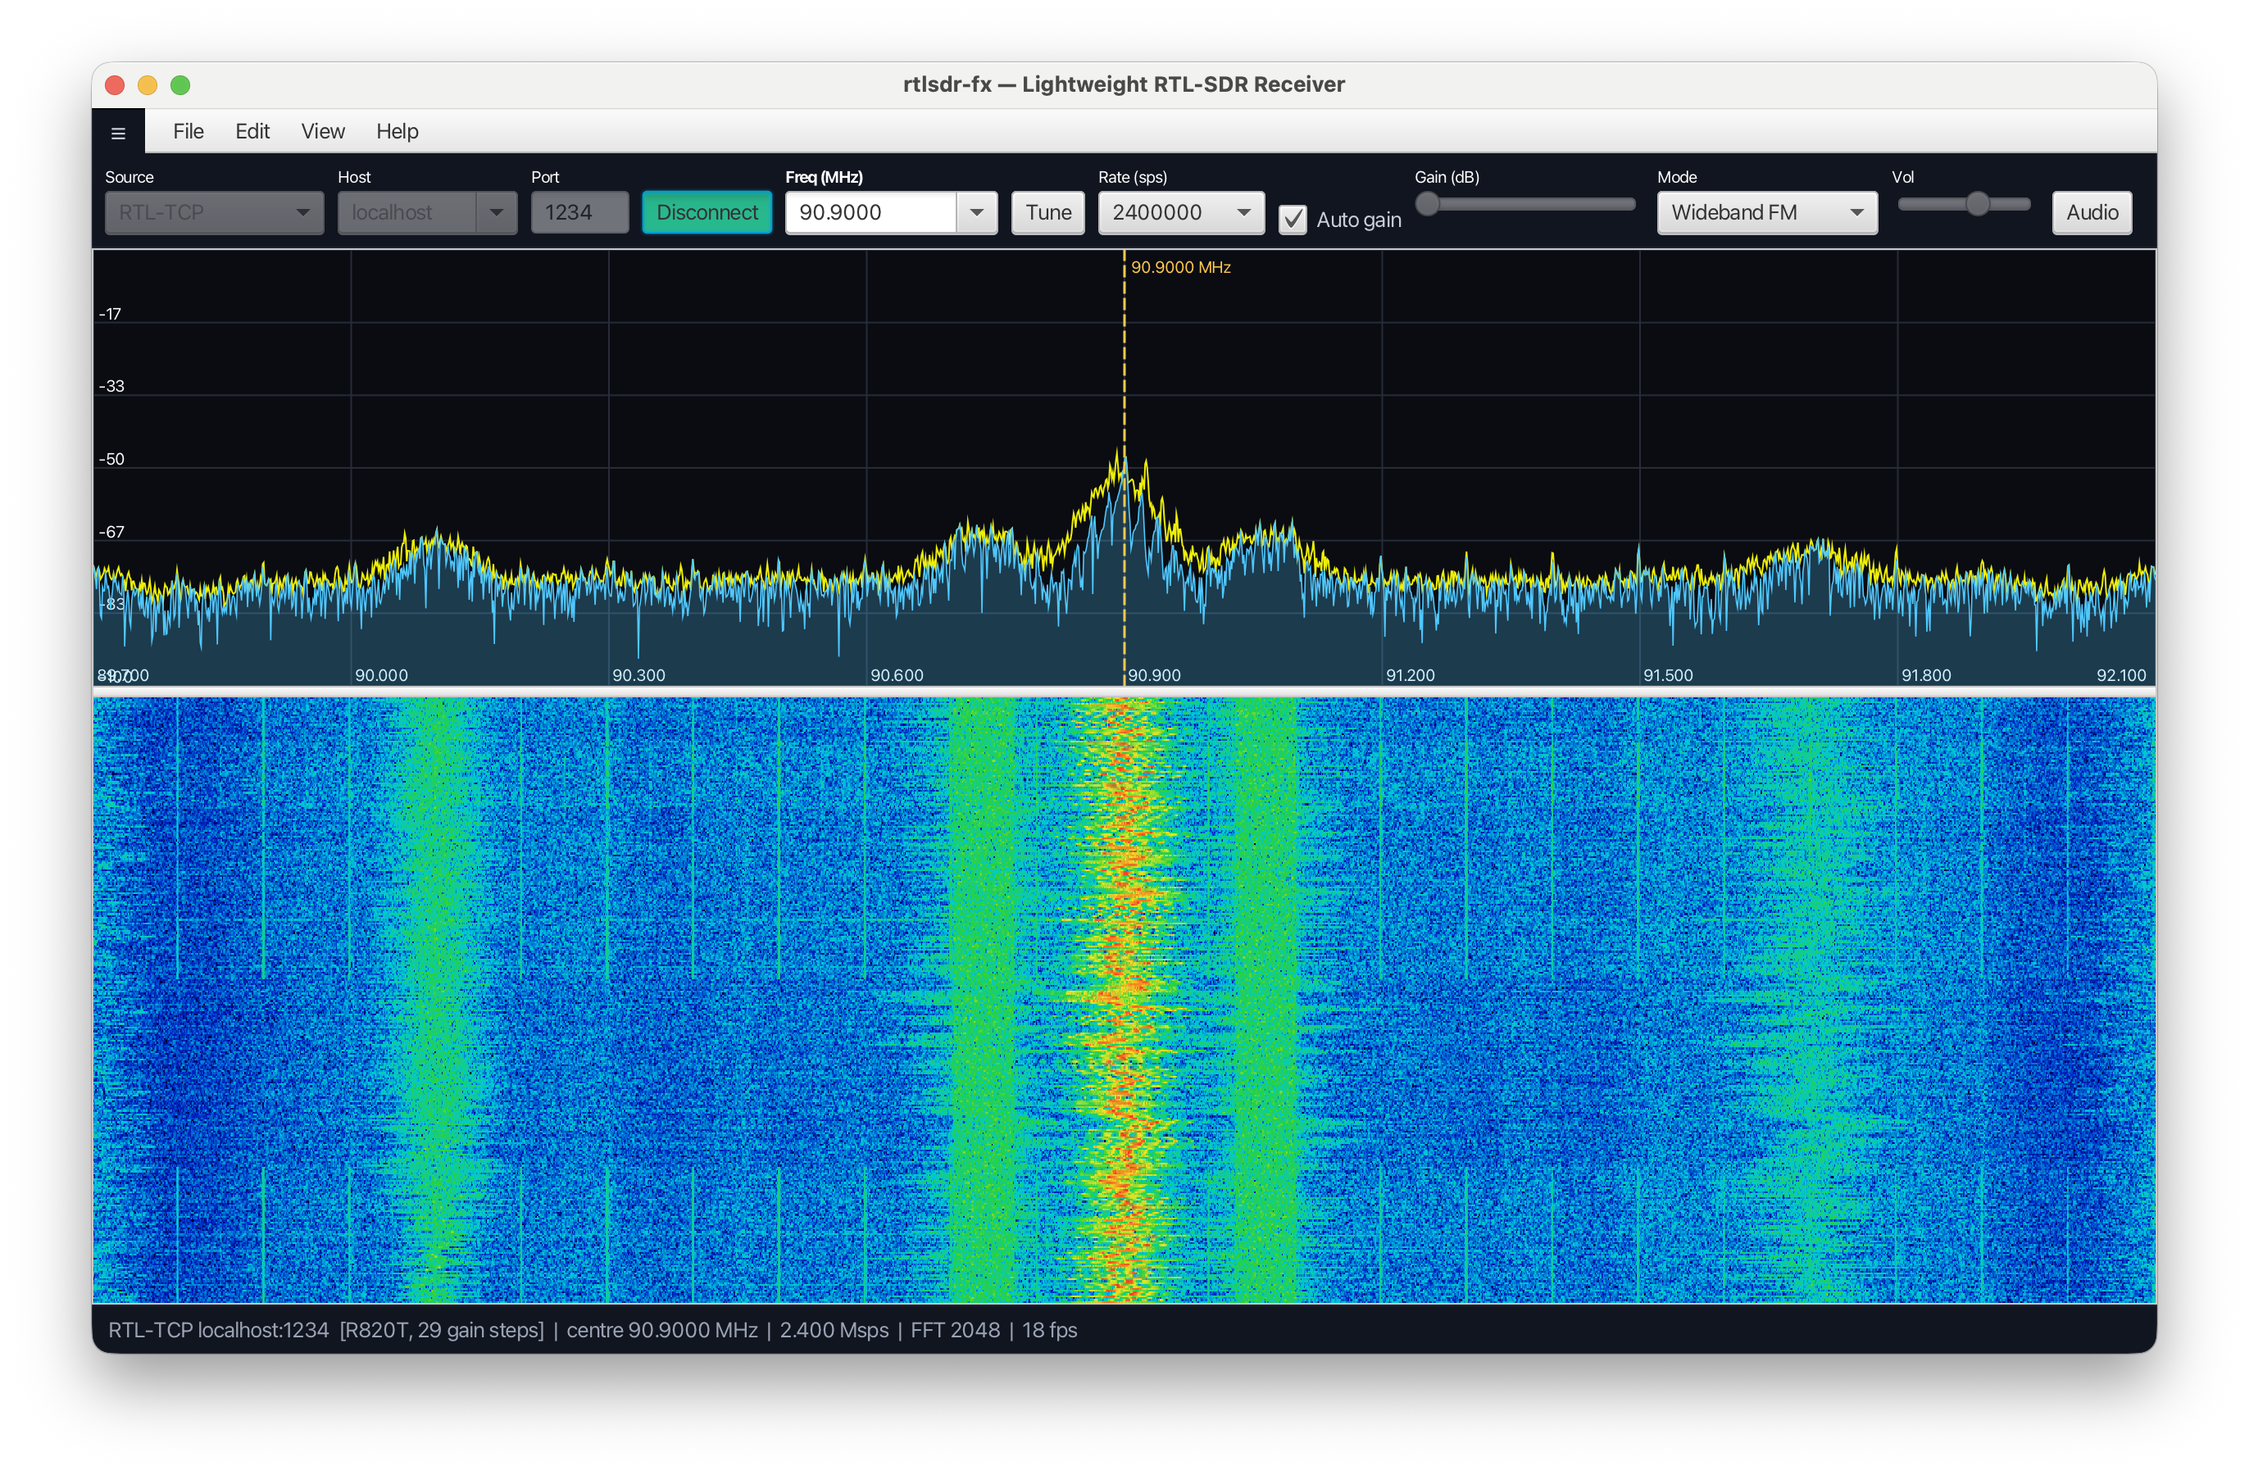
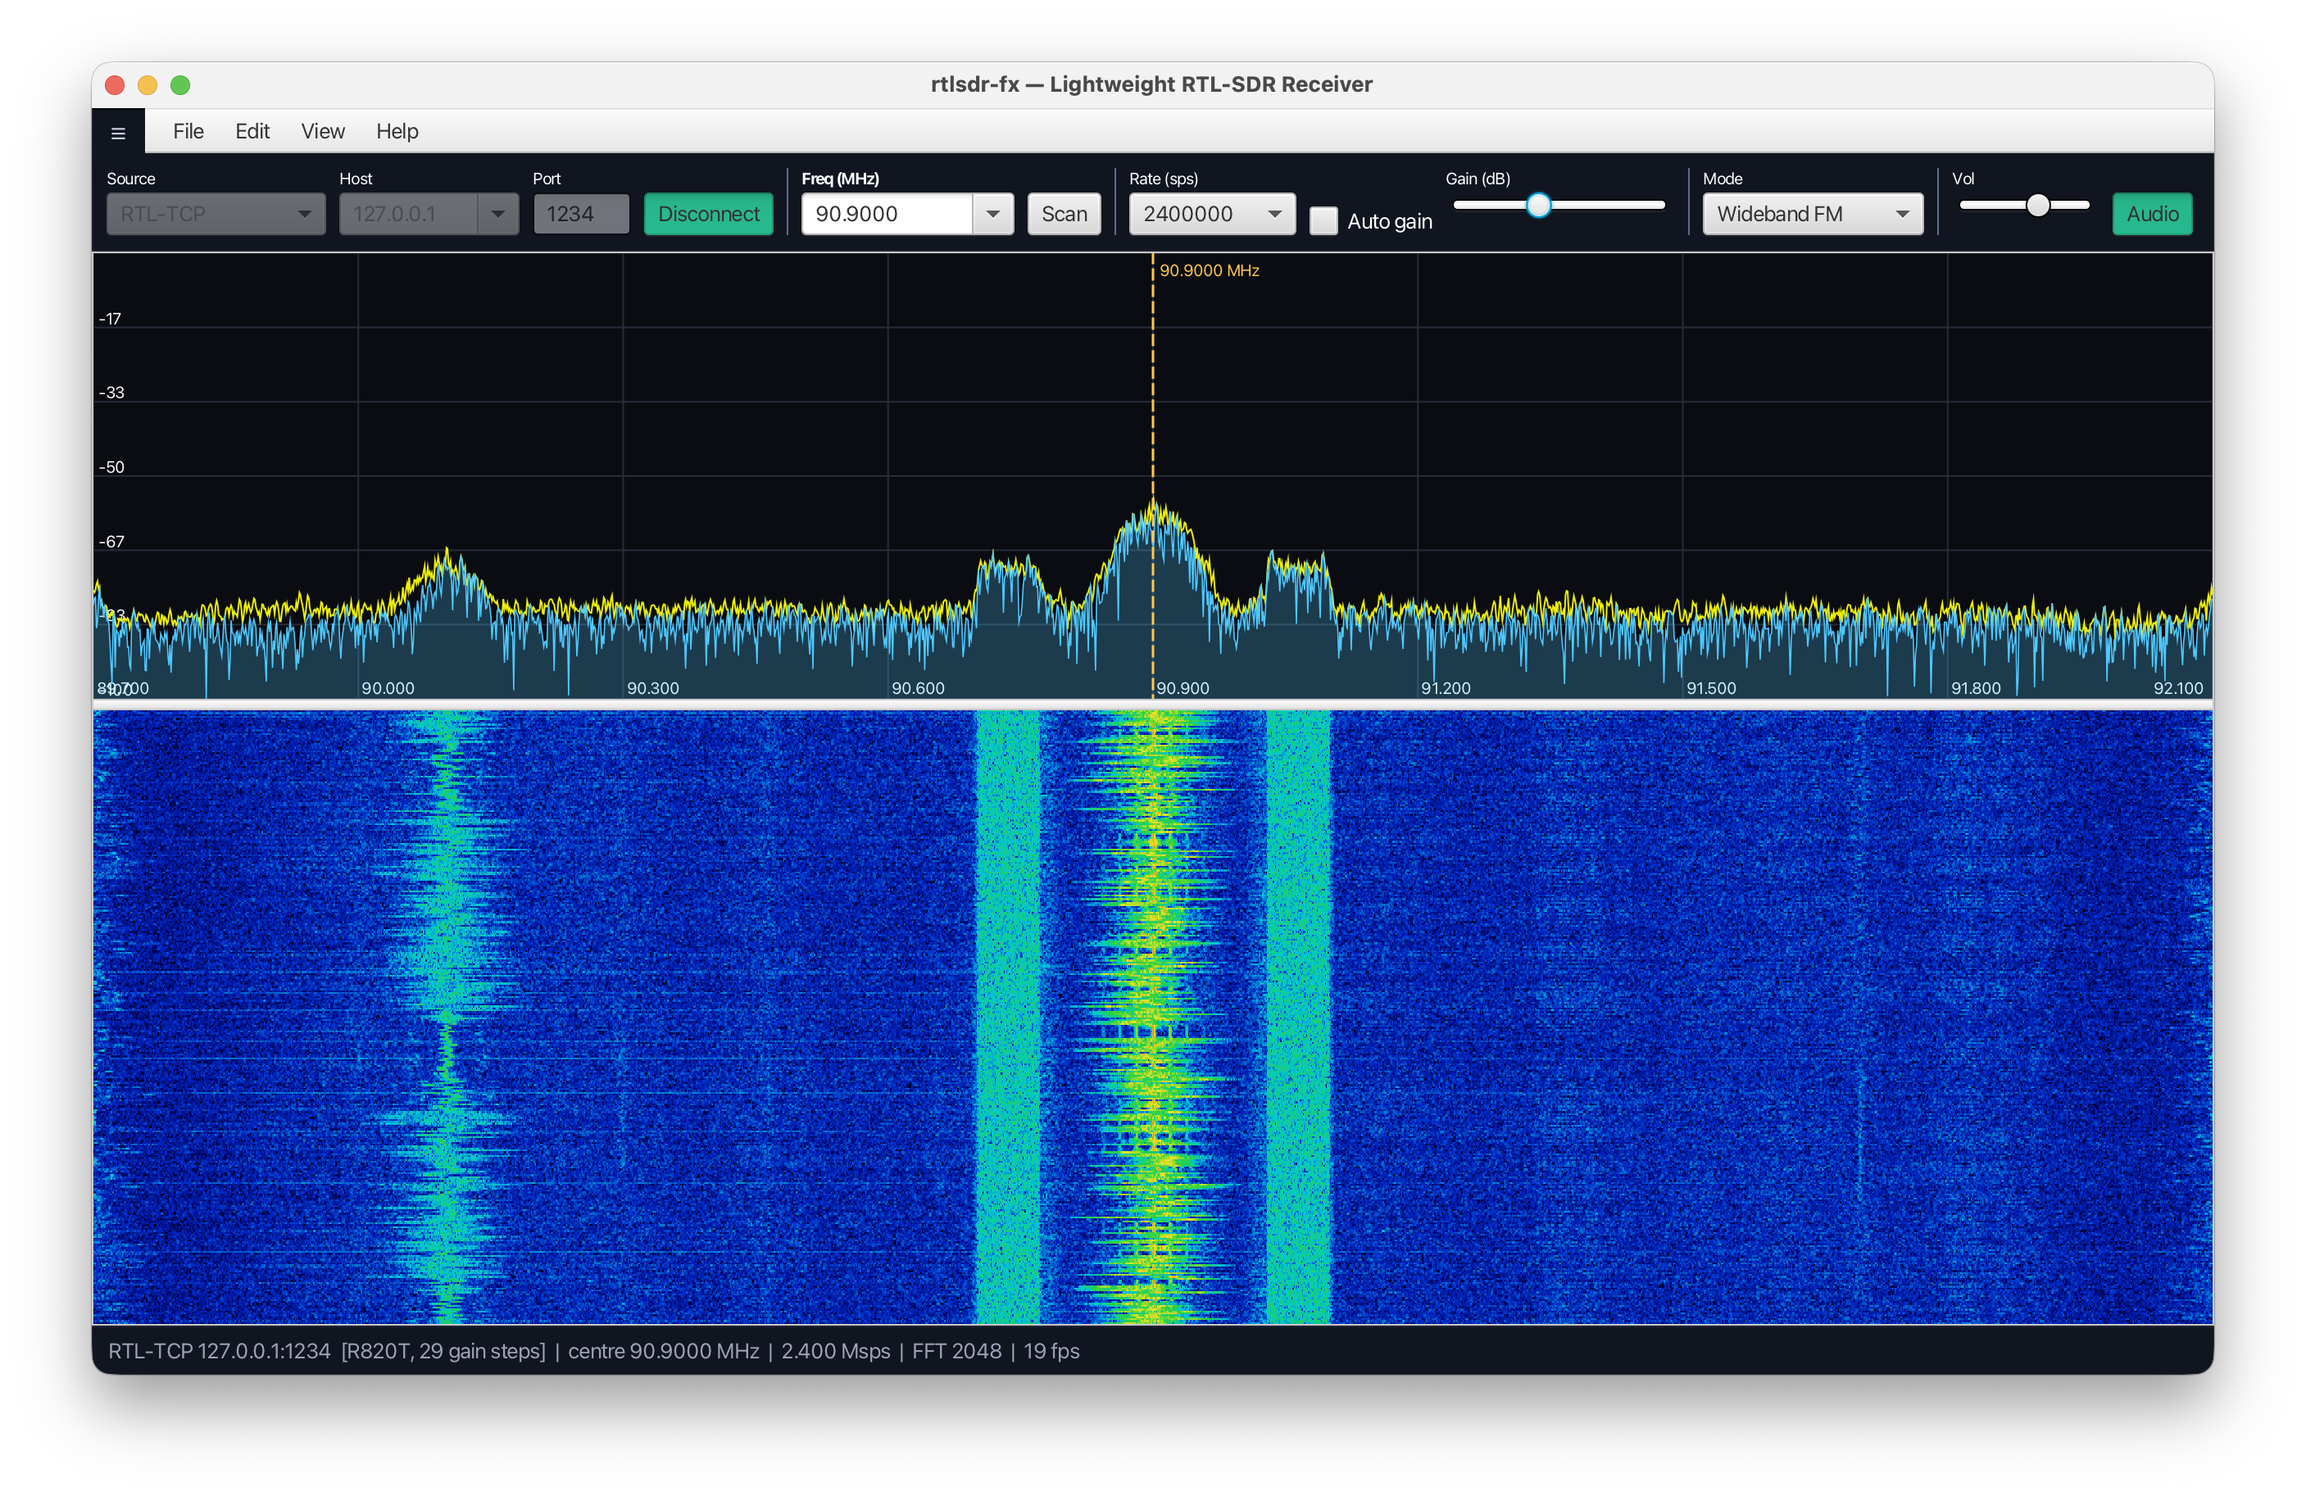
Add basic scanning and new screenshot

diff --git a/src/main/java/org/tauasa/apps/sdr/ui/SpectrumView.java b/src/main/java/org/tauasa/apps/sdr/ui/SpectrumView.java
@@ -3,18 +3,27 @@ package org.tauasa.apps.sdr.ui;
 import java.util.Arrays;
 import java.util.function.Consumer;
 
+import javafx.animation.PauseTransition;
 import javafx.scene.Cursor;
 import javafx.scene.canvas.Canvas;
 import javafx.scene.canvas.GraphicsContext;
 import javafx.scene.paint.Color;
 import javafx.scene.text.Font;
+import javafx.scene.text.FontWeight;
+import javafx.util.Duration;
 
 /** Draws the live power spectrum plus a slowly-decaying peak-hold trace. */
 public final class SpectrumView {
 
     private static final double HANDLE_RADIUS = 8;
+    /** Press/release moves less than this many pixels count as a click, not a drag. */
+    private static final double CLICK_MOVE_THRESHOLD = 3;
     /** Compresses the trace/peak curves toward the bottom so they swing less tall, without affecting the dB grid. */
     private static final double TRACE_VERTICAL_SCALE = 0.6;
+
+    private static final Font AXIS_FONT = Font.font(10);
+    /** Used for the marker label and the bottom frequency labels while a scan is running. */
+    private static final Font SCANNING_FONT = Font.font("System", FontWeight.BOLD, 16);
 
     private final Canvas canvas = new Canvas();
     private float[] peak;
@@ -28,9 +37,14 @@ public final class SpectrumView {
 
     private boolean dragging = false;
     private double lineX = -1;
+    private double pressX = -1;
     private long lastCenterFreq;
     private int lastSampleRate;
     private Consumer<Long> onFrequencyChanged;
+    private Runnable onSpectrumClicked;
+    private final PauseTransition singleClickDelay = new PauseTransition(Duration.millis(300));
+
+    private boolean scanning = false;
 
     public SpectrumView(double minDb, double maxDb) {
         this.minDb = minDb;
@@ -42,17 +56,33 @@ public final class SpectrumView {
         this.onFrequencyChanged = cb;
     }
 
+    /** Fired on a single (non-dragged) click anywhere on the spectrum — pauses/resumes a running scan. */
+    public void setOnSpectrumClicked(Runnable cb) {
+        this.onSpectrumClicked = cb;
+    }
+
+    /** Marks a scan as running or stopped; the marker's label is drawn larger while true. */
+    public void setScanning(boolean scanning) {
+        this.scanning = scanning;
+    }
+
+    /** Where the marker currently sits: the drag position while being dragged, centre otherwise. */
+    private double currentMarkerX() {
+        return dragging ? lineX : canvas.getWidth() / 2.0;
+    }
+
     private void installDragHandlers() {
         canvas.setOnMouseMoved(e -> {
-            double cx = dragging ? lineX : canvas.getWidth() / 2.0;
+            double cx = currentMarkerX();
             canvas.setCursor(Math.abs(e.getX() - cx) <= HANDLE_RADIUS
                     ? Cursor.H_RESIZE : Cursor.DEFAULT);
         });
         canvas.setOnMousePressed(e -> {
-            double cx = canvas.getWidth() / 2.0;
+            double cx = currentMarkerX();
             if (Math.abs(e.getX() - cx) <= HANDLE_RADIUS) {
                 dragging = true;
                 lineX = e.getX();
+                pressX = e.getX();
                 canvas.setCursor(Cursor.H_RESIZE);
             }
         });
@@ -65,11 +95,31 @@ public final class SpectrumView {
             if (dragging) {
                 dragging = false;
                 canvas.setCursor(Cursor.DEFAULT);
-                if (onFrequencyChanged != null && lastSampleRate > 0) {
+                // only treat this as a drag-to-retune if the mouse actually moved; a
+                // press+release with no movement is a click, handled below instead
+                if (Math.abs(lineX - pressX) > CLICK_MOVE_THRESHOLD
+                        && onFrequencyChanged != null && lastSampleRate > 0) {
                     double offset = (lineX / canvas.getWidth() - 0.5) * lastSampleRate;
                     onFrequencyChanged.accept(lastCenterFreq + Math.round(offset));
                 }
                 lineX = -1;
+            }
+        });
+        canvas.setOnMouseClicked(e -> {
+            // ignore clicks that were actually a drag (e.g. dragging the marker to retune)
+            if (!e.isStillSincePress()) {
+                return;
+            }
+            if (e.getClickCount() == 2) {
+                // a double-click just cancels any pending single-click (pause/resume) action
+                singleClickDelay.stop();
+            } else if (e.getClickCount() == 1) {
+                singleClickDelay.setOnFinished(ev -> {
+                    if (onSpectrumClicked != null) {
+                        onSpectrumClicked.run();
+                    }
+                });
+                singleClickDelay.playFromStart();
             }
         });
     }
@@ -130,7 +180,7 @@ public final class SpectrumView {
 
         // dB grid + labels
         g.setLineWidth(1);
-        g.setFont(Font.font(10));
+        g.setFont(AXIS_FONT);
         int dbLines = 6;
         for (int i = 0; i <= dbLines; i++) {
             double db = maxDb - (maxDb - minDb) * i / dbLines;
@@ -143,13 +193,15 @@ public final class SpectrumView {
 
         // frequency grid + labels
         int fdiv = 8;
+        g.setFont(scanning ? SCANNING_FONT : AXIS_FONT);
+        double freqLabelWidth = scanning ? 76 : 36;
         for (int i = 0; i <= fdiv; i++) {
             double x = w * i / fdiv;
             g.setStroke(Color.rgb(38, 44, 56));
             g.strokeLine(x, 0, x, h);
             double freqHz = centerFreq + ((double) i / fdiv - 0.5) * sampleRate;
             g.setFill(Color.WHITE);
-            g.fillText(String.format("%.3f", freqHz / 1e6), Math.min(x + 2, w - 36), h - 3);
+            g.fillText(String.format("%.3f", freqHz / 1e6), Math.min(x + 2, w - freqLabelWidth), h - 3);
         }
 
         // peak hold
@@ -199,19 +251,22 @@ public final class SpectrumView {
         }
         g.stroke();
 
-        // draggable centre-frequency marker
-        double lx = dragging ? lineX : w / 2.0;
+        // draggable centre-frequency marker; its label is drawn larger while a scan is running
+        double lx = currentMarkerX();
         g.setStroke(markerColor);
         g.setLineWidth(1.5);
         g.setLineDashes(6, 4);
         g.strokeLine(lx, 0, lx, h);
         g.setLineDashes();
 
-        double freqAtLine = centerFreq + (lx / w - 0.5) * sampleRate;
+        double freqAtLine = dragging
+                ? centerFreq + (lx / w - 0.5) * sampleRate
+                : centerFreq;
         g.setFill(markerColor);
-        g.setFont(Font.font(10));
-        double labelX = (lx + 4 + 60 < w) ? lx + 4 : lx - 64;
-        g.fillText(String.format("%.4f MHz", freqAtLine / 1e6), labelX, 14);
+        g.setFont(scanning ? SCANNING_FONT : AXIS_FONT);
+        double labelWidth = scanning ? 96 : 60;
+        double labelX = (lx + 4 + labelWidth < w) ? lx + 4 : lx - labelWidth - 4;
+        g.fillText(String.format("%.4f MHz", freqAtLine / 1e6), labelX, scanning ? 18 : 14);
     }
 
     private double dbToY(double db, double h) {

diff --git a/src/main/java/org/tauasa/apps/sdr/ui/MainController.java b/src/main/java/org/tauasa/apps/sdr/ui/MainController.java
@@ -84,7 +84,6 @@ public final class MainController {
     private ComboBox<String> hostCombo;
     private TextField portField;
     private ComboBox<String> freqCombo;
-    private Button tuneBtn;
     private ComboBox<Integer> rateBox;
     private CheckBox autoGain;
     private Slider gainSlider;
@@ -115,6 +114,7 @@ public final class MainController {
             sdr.setCenterFrequency(freq);
             freqCombo.getEditor().setText(String.format("%.4f", freq / 1e6));
         });
+        spectrumView.setOnSpectrumClicked(this::toggleScanPause);
         waterfallView = new WaterfallView(sdr.fftSize(), props.getWaterfallHeight(),
                 props.getMinDb(), props.getMaxDb());
 
@@ -196,9 +196,6 @@ public final class MainController {
             if (freqCombo.getValue() != null) applyFrequency();
         });
         loadSavedFrequencies();
-
-        tuneBtn = new Button("Tune");
-        tuneBtn.setOnAction(e -> applyFrequency());
 
         scanBtn = new ToggleButton("Scan");
         scanBtn.setOnAction(e -> toggleScan());
@@ -344,11 +341,15 @@ public final class MainController {
                 labeled("Host", hostCombo),
                 labeled("Port", portField),
                 bottomAlign(connectBtn),
-                labeledBold("Freq (MHz)", freqCombo), bottomAlign(tuneBtn), bottomAlign(scanBtn),
+                toolbarDividerVertical(),
+                labeledBold("Freq (MHz)", freqCombo), bottomAlign(scanBtn),
+                toolbarDividerVertical(),
                 labeled("Rate (sps)", rateBox),
                 bottomAlign(autoGain),
                 labeled("Gain (dB)", gainSlider),
+                toolbarDividerVertical(),
                 labeled("Mode", modeBox),
+                toolbarDividerVertical(),
                 labeled("Vol", volumeSlider),
                 bottomAlign(audioBtn));
         bar.setPadding(new Insets(8));
@@ -379,7 +380,6 @@ public final class MainController {
                 bottomAlign(connectBtn),
                 toolbarDivider(),
                 labeledBold("Freq (MHz)", freqCombo),
-                bottomAlign(tuneBtn),
                 bottomAlign(scanBtn),
                 toolbarDivider(),
                 labeled("Rate (sps)", rateBox),
@@ -420,6 +420,16 @@ public final class MainController {
         divider.setMinHeight(1);
         divider.setPrefHeight(1);
         divider.setMaxHeight(1);
+        divider.setStyle("-fx-background-color: #5b6b91;");
+        return divider;
+    }
+
+    private Region toolbarDividerVertical() {
+        Region divider = new Region();
+        divider.setMinWidth(1);
+        divider.setPrefWidth(1);
+        divider.setMaxWidth(1);
+        divider.setMaxHeight(Double.MAX_VALUE);
         divider.setStyle("-fx-background-color: #5b6b91;");
         return divider;
     }
@@ -644,10 +654,29 @@ public final class MainController {
         }
     }
 
+    /** Single-click anywhere on the spectrum during a scan: pause in place, click again to resume. */
+    private void toggleScanPause() {
+        if (!scanner.isScanning()) {
+            return;
+        }
+        if (scanner.isPaused()) {
+            scanner.resume();
+            statusLabel.setText("Scan resumed.");
+        } else {
+            scanner.pause();
+            SpectrumFrame f = latest.get();
+            if (f != null) {
+                freqCombo.getEditor().setText(String.format("%.4f", f.centerFrequency() / 1e6));
+                statusLabel.setText(String.format("Scan paused at %.4f MHz — click spectrum to resume.",
+                        f.centerFrequency() / 1e6));
+            }
+        }
+    }
+
     private void updateScanControls(boolean scanningOn) {
         scanBtn.setStyle(scanningOn ? "-fx-base: #2ecfa1;" : "");
         freqCombo.setDisable(scanningOn);
-        tuneBtn.setDisable(scanningOn);
+        spectrumView.setScanning(scanningOn);
     }
 
     private void stopScanIfActive() {

diff --git a/src/main/java/org/tauasa/apps/sdr/scan/Scanner.java b/src/main/java/org/tauasa/apps/sdr/scan/Scanner.java
@@ -38,6 +38,8 @@ public final class Scanner {
     private final AtomicReference<SpectrumFrame> latestFrame = new AtomicReference<>();
     private volatile Thread scanThread;
     private volatile boolean scanning;
+    private volatile boolean paused;
+    private final Object pauseMonitor = new Object();
 
     private volatile LongConsumer onTune = f -> { };
     private volatile LongConsumer onDetect = f -> { };
@@ -71,11 +73,16 @@ public final class Scanner {
         return scanning;
     }
 
+    public boolean isPaused() {
+        return paused;
+    }
+
     public synchronized void start() {
         if (scanning) {
             return;
         }
         scanning = true;
+        paused = false;
         latestFrame.set(null);
         Thread t = new Thread(this::runLoop, "scanner");
         t.setDaemon(true);
@@ -85,17 +92,46 @@ public final class Scanner {
 
     public synchronized void stop() {
         scanning = false;
+        paused = false;
         Thread t = scanThread;
         scanThread = null;
         if (t != null) {
             t.interrupt();
         }
+        wakePaused();
+    }
+
+    /** Halts the sweep in place — the tuner stays parked on the current frequency until {@link #resume()}. */
+    public void pause() {
+        paused = true;
+    }
+
+    /** Continues the sweep from wherever it was paused. */
+    public void resume() {
+        paused = false;
+        wakePaused();
+    }
+
+    private void wakePaused() {
+        synchronized (pauseMonitor) {
+            pauseMonitor.notifyAll();
+        }
     }
 
     private void runLoop() {
-        long freq = startFrequency;
+        long freq = sdr.getCenterFrequency();
         try {
             while (scanning) {
+                if (paused) {
+                    synchronized (pauseMonitor) {
+                        while (paused && scanning) {
+                            pauseMonitor.wait();
+                        }
+                    }
+                    if (!scanning) {
+                        break;
+                    }
+                }
                 latestFrame.set(null);
                 sdr.setCenterFrequency(freq);
                 onTune.accept(freq);
@@ -123,6 +159,7 @@ public final class Scanner {
             Thread.currentThread().interrupt();
         } finally {
             scanning = false;
+            paused = false;
             onStopped.run();
         }
     }

diff --git a/src/main/java/org/tauasa/apps/sdr/service/SdrService.java b/src/main/java/org/tauasa/apps/sdr/service/SdrService.java
@@ -158,6 +158,10 @@ public class SdrService {
         }
     }
 
+    public long getCenterFrequency() {
+        return centerFreq;
+    }
+
     public void setSampleRate(int sps) {
         this.sampleRate = sps;
         demod.configure(sps);
